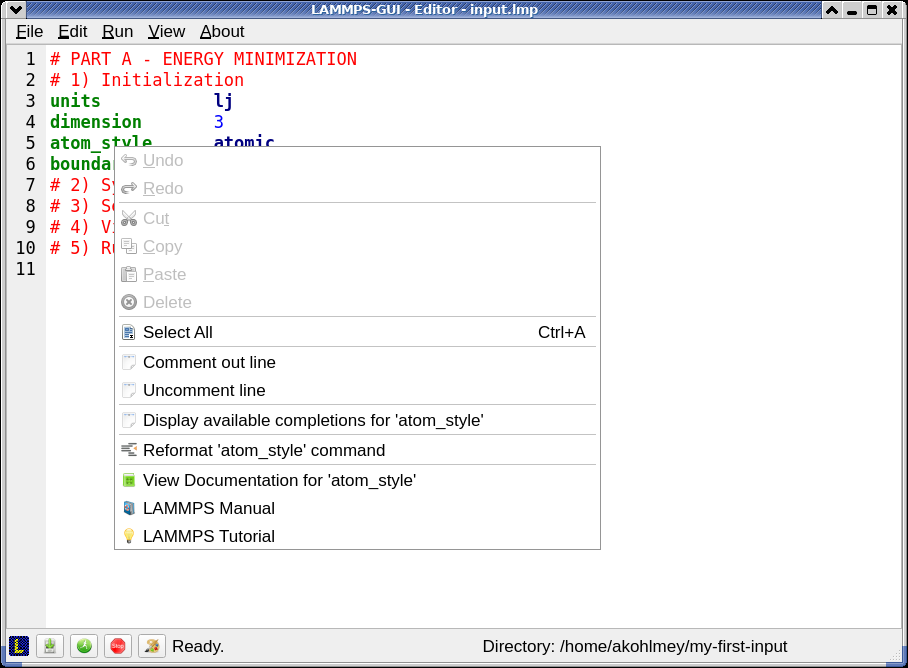
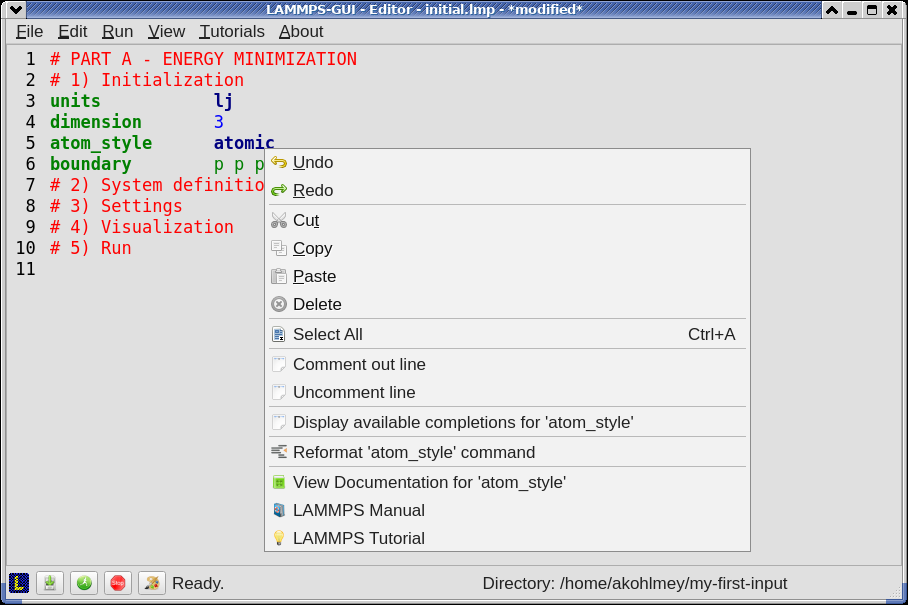
start working on tutorial 1

diff --git a/lammps-tutorials.tex b/lammps-tutorials.tex
@@ -442,7 +442,7 @@ which we will fill out step by step.  To set up the tutorial, select
 follow the instructions.  This will select, and -- if needed -- create,
 a folder, place the initial input file \textit{initial.lmp} into it, and
 open it in the LAMMPS--GUI editor.  The editor should have the following
-content.
+content afterwards.
 {\normalsize
 \begin{verbatim}
 # PART A - ENERGY MINIMIZATION
@@ -475,39 +475,38 @@ or the type of atoms (e.g., uncharged point particles or extended
 spheres with a radius and angular velocities).  These commands must be
 executed \emph{before} the simulation box is created, and they will
 cause an error if entered later.  Similarly, many LAMMPS commands may
-only be entered \emph{after} the simulation box is defined.  Only a
-very small number of commands may be used in both cases.  Enter the
-following lines into \textit{input.lmp}:
+only be entered \emph{after} the simulation box is defined.  Only a very
+small number of commands may be used in both cases.  Edit
+\textit{initial.lmp} so that the section looks like this:
 {\normalsize
 \begin{verbatim}
- # 1) Initialization
- units lj
- dimension 3
- atom_style atomic
- boundary p p p
+# 1) Initialization
+units           lj
+dimension       3
+atom_style      atomic
+boundary        p p p
 \end{verbatim}
 }
 
 The first line, \textit{units lj}, indicates that we want to use
 so-called ``reduced units'' in which all quantities are unitless.  This
 is a popular choice for simulations investigating general statistical
-mechanical principles where only relative differences between
-parameters matter and that are not aimed to represent any specific
-material.
+mechanical principles where only relative differences between parameters
+matter and that are not aimed to represent any specific material.
 
-The second line, \textit{dimension 3}, indicates that the
-simulation is in 3D as opposed to a 2D system where atoms can only
-move in the xy-plane.  The third line, \textit{atom\_style atomic},
-indicates that the \textit{atomic} style will be used for particles,
-therefore each particle is just a point with a mass.  This is the
-minimal atom style; other atom styles allow to associate more properties
-with atoms like charges, bonds, molecule IDs and much more.  The
-choice of atom style is generally determined by the model being
-simulated.  Using a different atom style is possible for as long
-as it is a superset of the atom style with the required properties.
-For example, it would be possible to use atom style ``charge'' instead
-of ``atomic''.  It will not affect the simulation, only it requires
-more memory to store the (otherwise unused) per-atom properties.
+The second line, \textit{dimension 3}, indicates that the simulation is
+in 3D as opposed to a 2D system where atoms can only move in the
+xy-plane.  The third line, \textit{atom\_style atomic}, indicates that
+the \textit{atomic} style will be used for particles, therefore each
+particle is just a point with a mass.  This is the minimal atom style;
+other atom styles allow to associate more properties with atoms like
+charges, bonds, molecule IDs and much more.  The choice of atom style is
+generally determined by the model being simulated.  Using a different
+atom style is possible for as long as it is a superset of the atom style
+with the required properties.  For example, it would be possible to use
+atom style ``charge'' instead of ``atomic''.  It will not affect the
+simulation, only it requires more memory to store the (otherwise unused)
+per-atom properties.
 
 The last line, \textit{boundary p p p}, indicates that periodic boundary
 conditions will be used along all three directions of space (the 3
